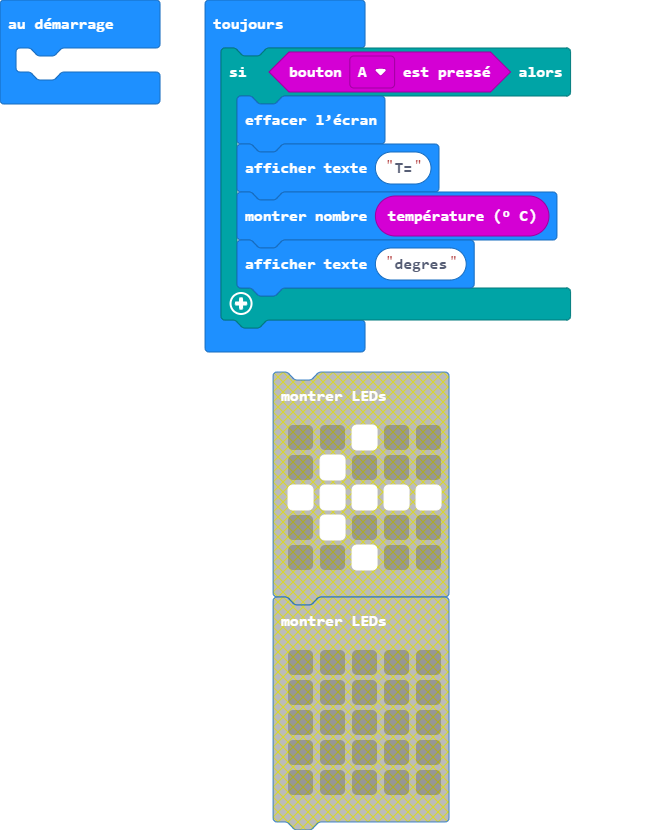
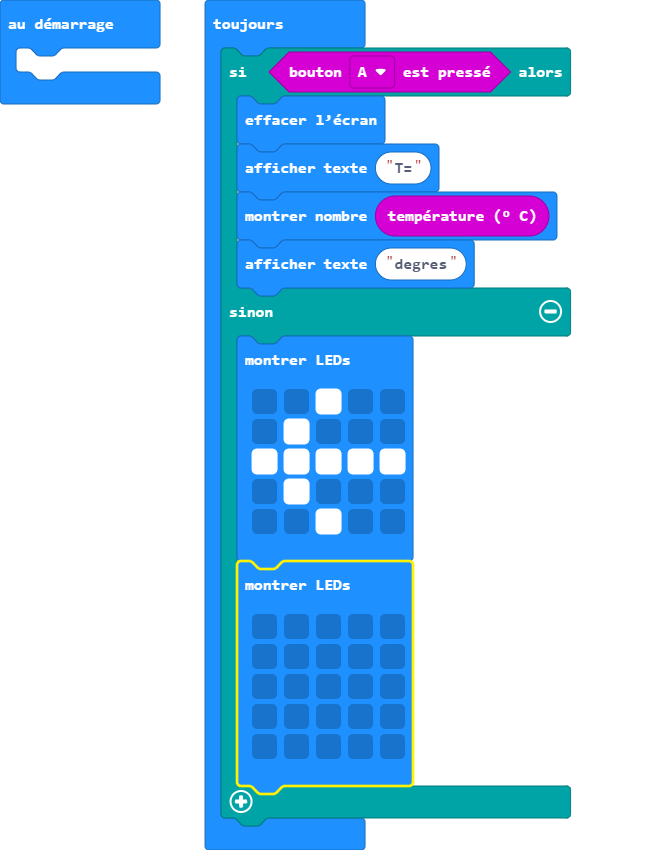
Mise à jour main.blocks, main.ts

Changed region(s): [[0.3026, 0.0301, 0.8775, 1.0], [0.0, 0.0301, 0.2421, 0.1506], [0.0605, 0.0, 0.0908, 0.0301]]

diff --git a/main.ts b/main.ts
@@ -4,5 +4,20 @@ basic.forever(function () {
         basic.showString("T=")
         basic.showNumber(input.temperature())
         basic.showString("degres")
+    } else {
+        basic.showLeds(`
+            . . # . .
+            . # . . .
+            # # # # #
+            . # . . .
+            . . # . .
+            `)
+        basic.showLeds(`
+            . . . . .
+            . . . . .
+            . . . . .
+            . . . . .
+            . . . . .
+            `)
     }
 })
